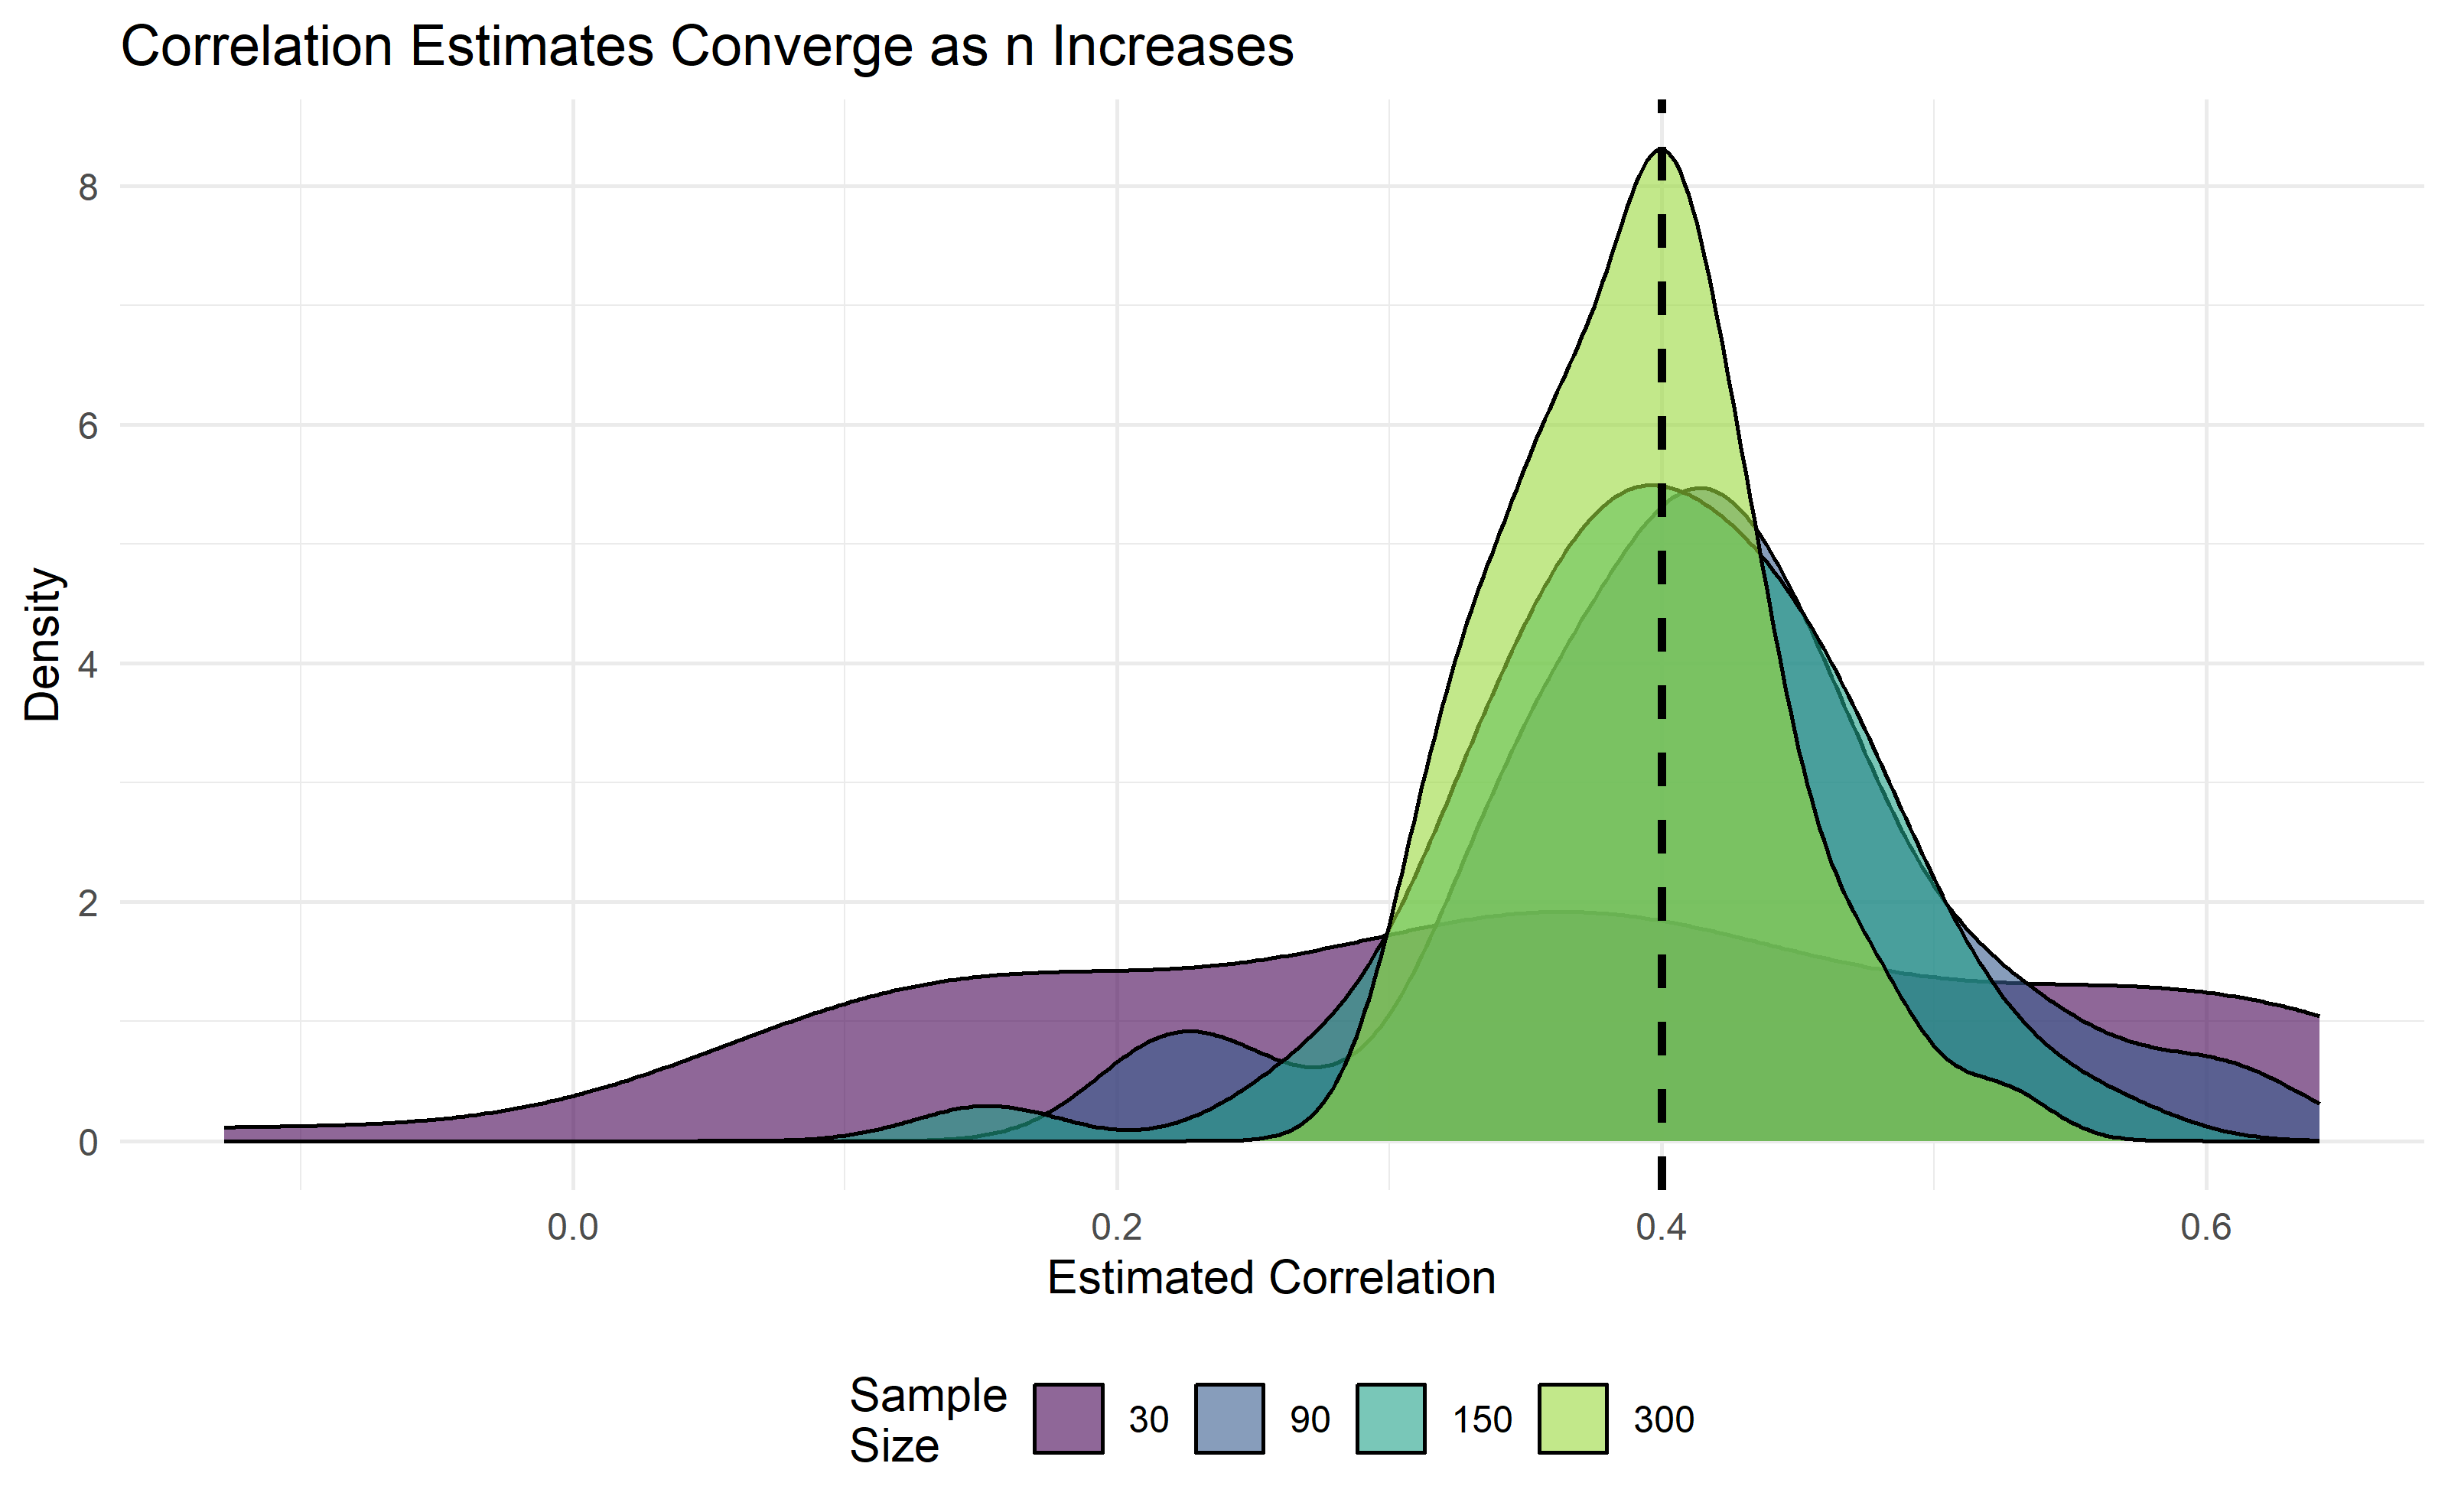
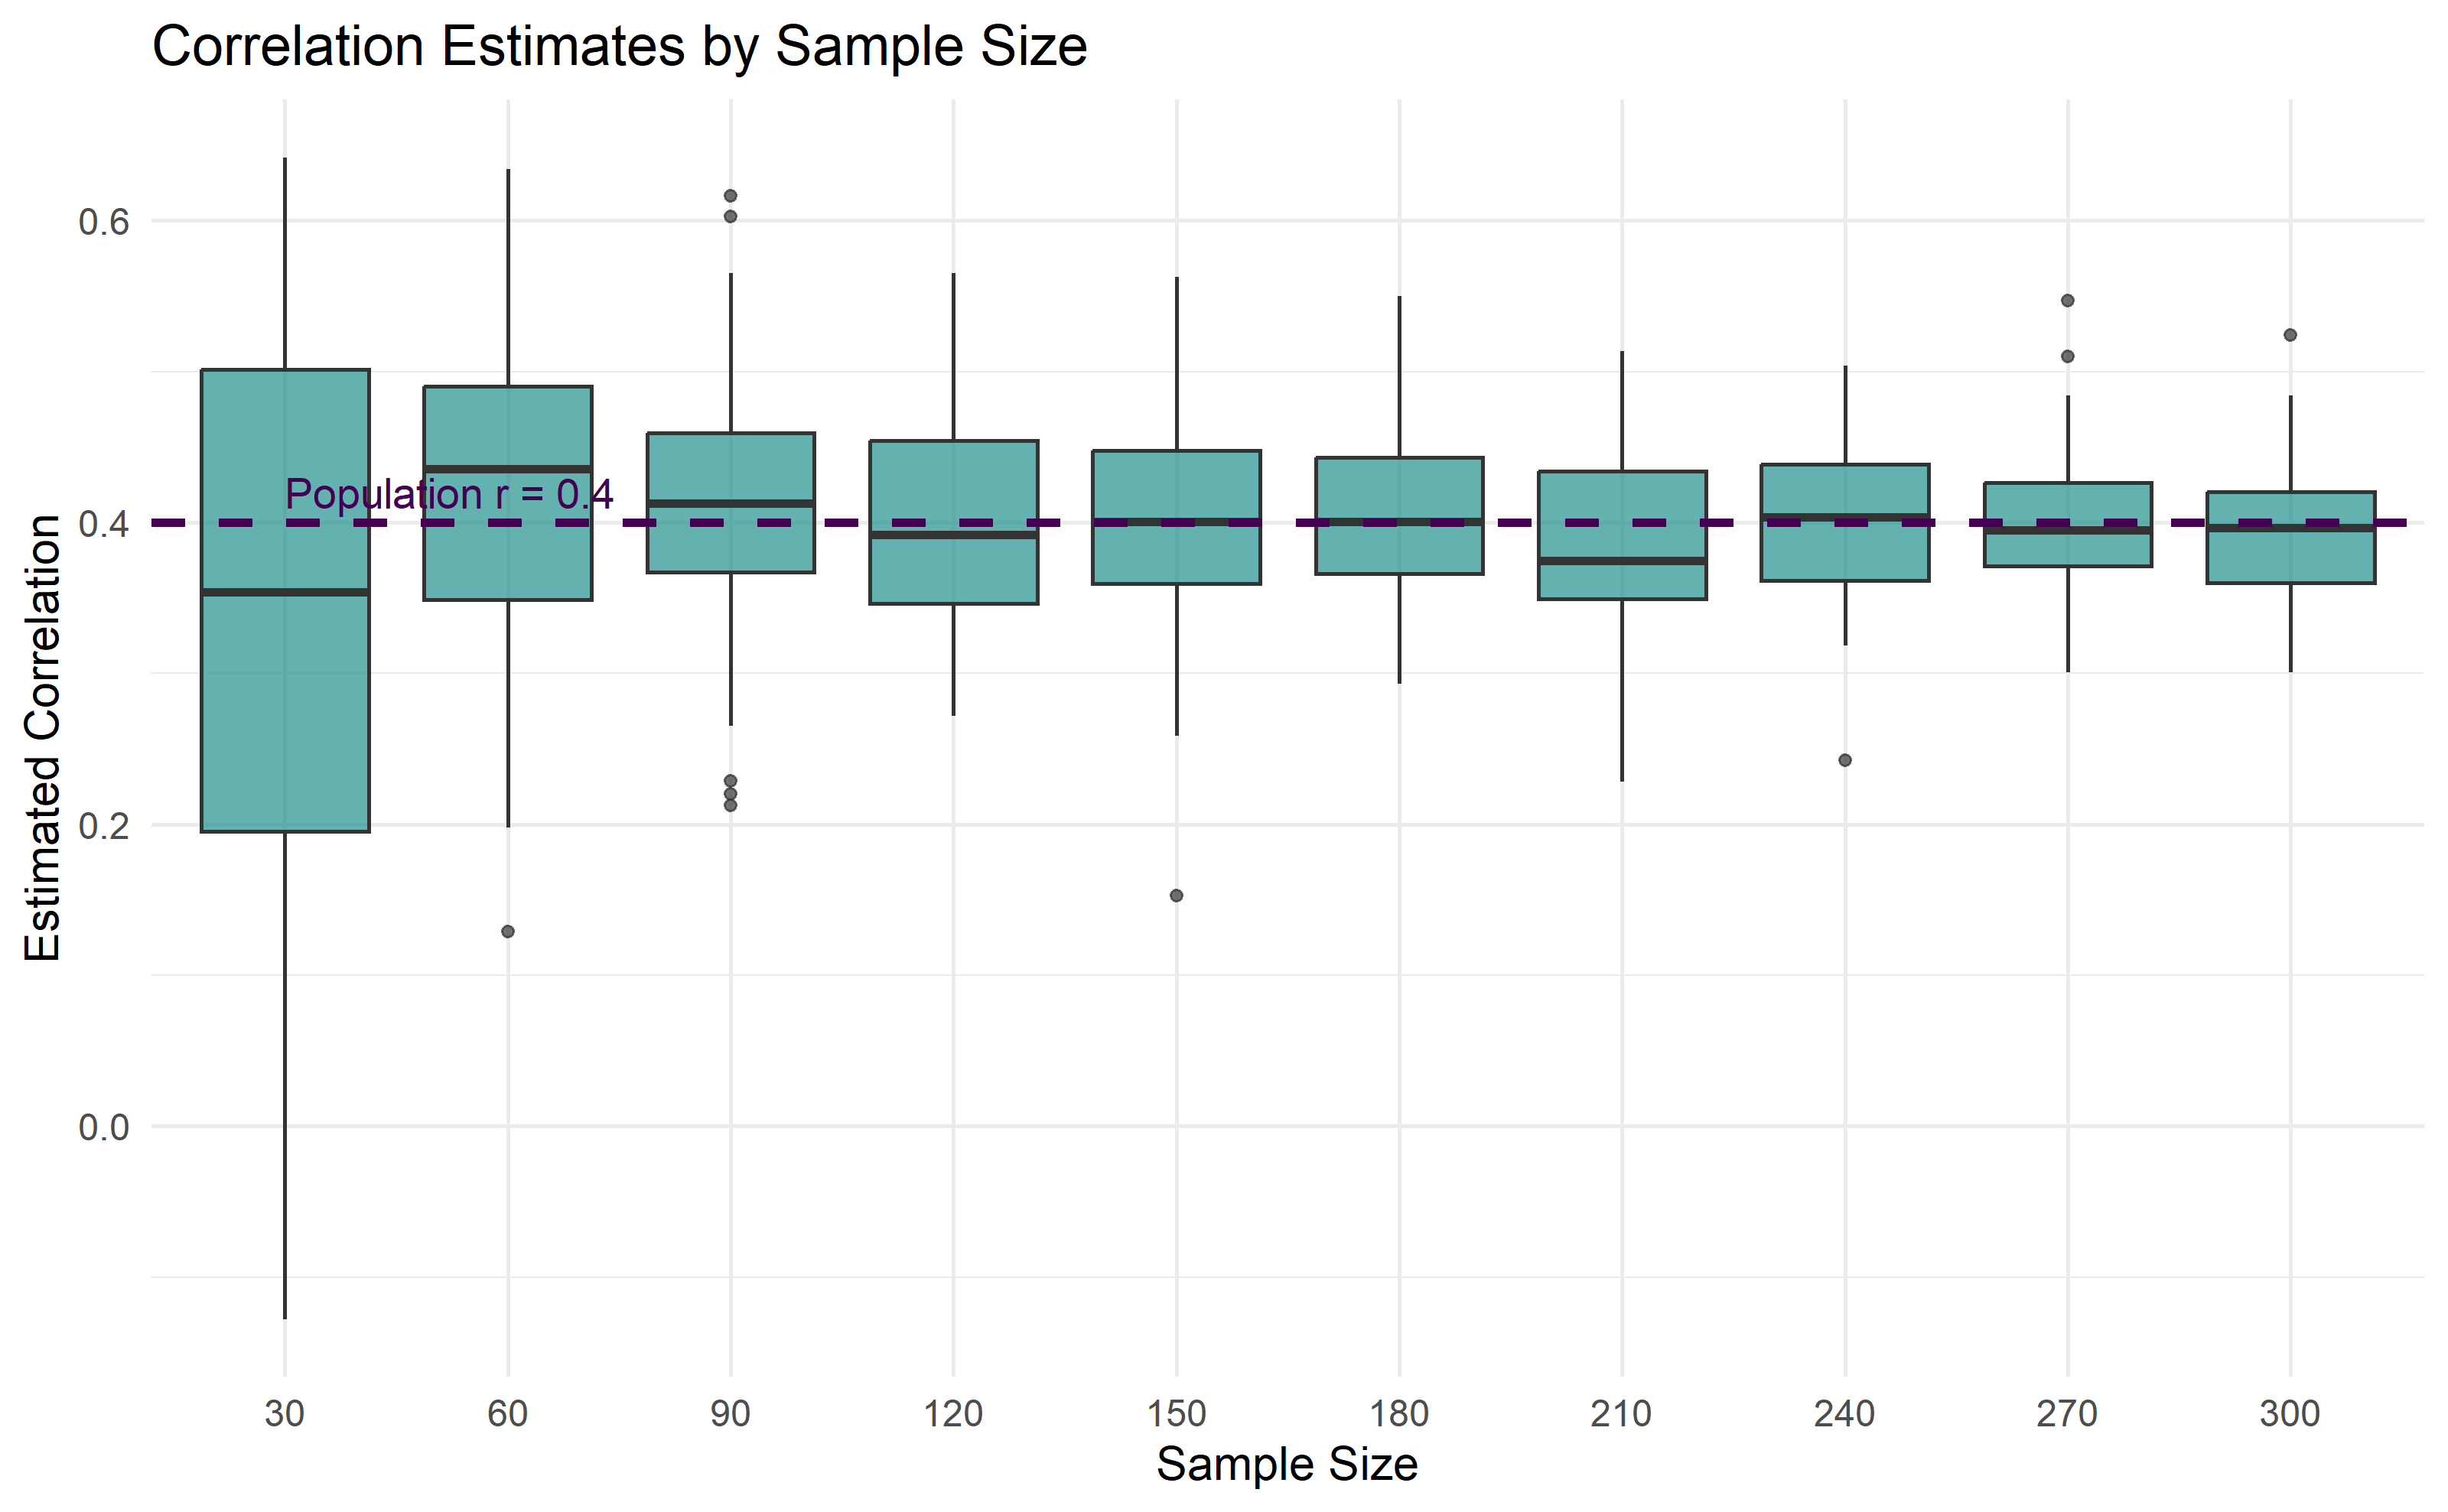
update slide 2

diff --git a/d31_moresimulations/d31_simulations.html b/d31_moresimulations/d31_simulations.html
@@ -360,6 +360,13 @@ cov_mat
 ## [2,]   90  225
 ```
 
+
+--
+
+.midi[
+The diagonal values (225) are the **variances** (`\(15^2 = 225\)`). The off-diagonal values (90) are the **covariances** (`\(0.4 \times 15 \times 15 = 90\)`).
+]
+
 ---
 
 ## Step 3: Generate the Data
@@ -397,6 +404,8 @@ head(sim, 4)
 .question[How do we know the simulated data matches what we asked for?]
 
 --
+
+Always verify your parameters after generating data:
 
 .pull-left[
 
@@ -461,16 +470,20 @@ cov_exams &lt;- cor_exams * (sd_exams %*% t(sd_exams))
 
 --
 
-.tip[Make sure your correlation matrix is **symmetric** and **positive definite**. R will error otherwise.]
-
+.tip[
+When building correlation matrices, make sure they are **symmetric** (same value above and below the diagonal) and **positive definite** (all eigenvalues &gt; 0). R will throw an error if the matrix isn't valid.
+]
 ---
 
-## Did the Correlations Recover?
+## Did It Work?
 
 &lt;img src="d31_simulations_files/figure-html/unnamed-chunk-20-1.png" alt="" width="60%" style="display: block; margin: auto;" /&gt;
 
----
+--
 
+The recovered correlations are close to the population values — simulation is working as intended.
+
+---
 
 class: middle
 
@@ -497,9 +510,9 @@ We can answer this **entirely through simulation**.
 
 ---
 
-## Building the Power Function
+## Building a Power Simulation, Step by Step
 
-One simulated experiment: generate two groups with a known difference, run a t-test.
+First, let's think about what a single simulated experiment looks like:
 
 
 ``` r
@@ -510,8 +523,34 @@ t.test(group1, group2)$p.value &lt; 0.05
 
 --
 
-Repeat 1000 times and wrap it up:
+We generate two groups with a **known** difference (5 points), then test whether we can detect it...
 
+---
+
+## Repeating the Experiment
+
+
+Now repeat that experiment many times:
+
+
+
+``` r
+results &lt;- replicate(1000, {
+  group1 &lt;- rnorm(n_per_group, mean = 0, sd = 10)
+  group2 &lt;- rnorm(n_per_group, mean = 5, sd = 10)
+  t.test(group1, group2)$p.value &lt; 0.05
+})
+```
+
+--
+
+Each replication returns `TRUE` (significant) or `FALSE` (not significant).
+
+---
+
+## Wrapping It in a Function
+
+.pull-left[
 
 ``` r
 power_sim &lt;- function(n_per_group, effect = 5, sd = 10,
@@ -524,10 +563,22 @@ power_sim &lt;- function(n_per_group, effect = 5, sd = 10,
   mean(significant)
 }
 ```
+]
+--
+.pull-right[
+
+This function:
+1. Generates two groups with a known difference
+2. Runs a t-test
+3. Checks if p &lt; .05
+4. Repeats 1000 times
+5. Returns the proportion of significant results = **power**
+]
 
 ---
 
-## Trying Different Sample Sizes
+## Let's Try a Few Sample Sizes
+
 
 
 ``` r
@@ -563,13 +614,15 @@ power_sim(n_per_group = 60)
 
 --
 
-Where does it cross the conventional 80% threshold?
+.midi[
+Power goes up as sample size increases. But where does it cross the conventional 80% threshold?
+]
 
 ---
 
 ## The Power Curve
 
-&lt;img src="d31_simulations_files/figure-html/unnamed-chunk-26-1.png" alt="" width="80%" style="display: block; margin: auto;" /&gt;
+&lt;img src="d31_simulations_files/figure-html/unnamed-chunk-27-1.png" alt="" width="80%" style="display: block; margin: auto;" /&gt;
 
 --
 
@@ -620,13 +673,13 @@ Let's go back to our exam score simulation (r = 0.4) and see how the estimate va
 
 ## Watching Estimates Converge
 
-&lt;img src="d31_simulations_files/figure-html/unnamed-chunk-27-1.png" alt="" width="80%" style="display: block; margin: auto;" /&gt;
+&lt;img src="d31_simulations_files/figure-html/unnamed-chunk-28-1.png" alt="" width="80%" style="display: block; margin: auto;" /&gt;
 
 ---
 
 ## The Distribution Narrows
 
-&lt;img src="d31_simulations_files/figure-html/unnamed-chunk-28-1.png" alt="" width="70%" style="display: block; margin: auto;" /&gt;
+&lt;img src="d31_simulations_files/figure-html/unnamed-chunk-29-1.png" alt="" width="70%" style="display: block; margin: auto;" /&gt;
 
 --
 
@@ -654,6 +707,7 @@ class: middle
 .hand[.light-blue[It's like a laboratory experiment, but for statistical methods.]]
 
 ---
+
 
 ## The Simulation Workflow
 
@@ -685,16 +739,21 @@ class: middle
 
 ---
 
-## Use Cases in Psychology
+- How often does my test reject when it shouldn't? **Type I error rate**
 
-Monte Carlo simulation is used **all the time** in quantitative psychology:
+--
 
-- Does my method give unbiased estimates? **Bias**
-- How often does my test reject when it should? **Power**
-- How often does it reject when it shouldn't? **Type I error rate**
 - What happens when assumptions are violated? **Robustness**
 
-.footnote[See Muthen &amp; Muthen (2002) on Monte Carlo for power, and Fan (2012) in the APA Handbook.]
+--
+
+- How large a sample do I need? **Sample size planning**
+
+--
+
+.footnote[
+For a deeper dive, see Muthén &amp; Muthén (2002) on using Monte Carlo simulation for sample size and power determination, and Fan (2012) in the APA Handbook for a wonderful introduction aimed at psychology researchers.
+]
 
 ---
 